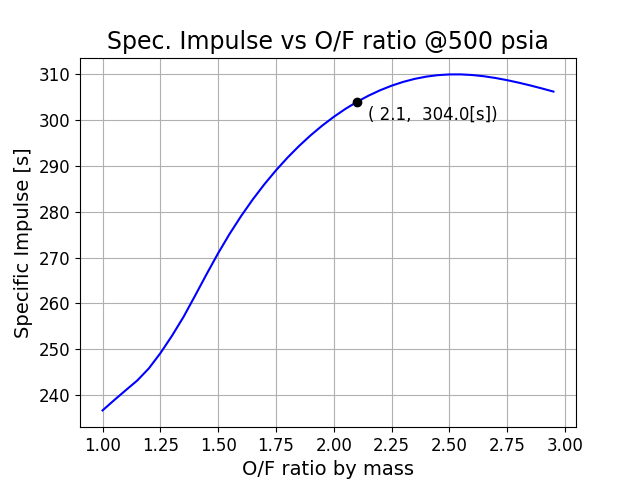
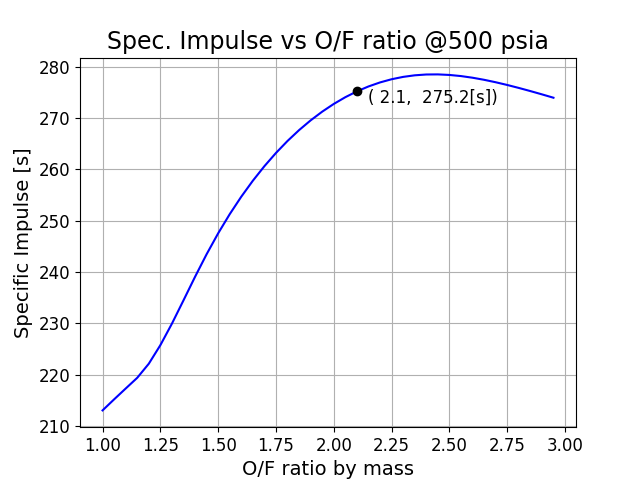
updating to amb. isp

diff --git a/TCA/TCA Sizing Code Files/Final_Graphing_Script.py b/TCA/TCA Sizing Code Files/Final_Graphing_Script.py
@@ -71,13 +71,14 @@ plt.figure(1)
 count = 0
 for mr in mr_range:
     Eps = C.get_eps_at_PcOvPe(Pc = pc, MR = mr, PcOvPe= (pc / pe))  #Optimal Nozzle Expansion Ratio for inputs
-    Isp_vals[count] = C.get_Isp(Pc = pc, MR = mr, eps = Eps) #Calculates specific impulse (s) for given inputs
+    isps = C.estimate_Ambient_Isp(Pc = pc, MR = mr, eps = Eps, Pamb = pamb, frozen = 0) #Calculates specific impulse (s) for given inputs
+    Isp_vals[count] = isps[0]
     count = count + 1
 plt.plot(mr_range, Isp_vals, 'b')
 Eps_chosen = C.get_eps_at_PcOvPe(Pc = pc, MR = of, PcOvPe= (pc / pe))
-Isp_chosen = C.get_Isp(Pc = pc, MR = of, eps = Eps_chosen)
-plt.plot(of, Isp_chosen, 'ko')
-plt.text(2.15, 300, f'({of : .1f}, {Isp_chosen : .1f}[s])', fontsize = 12)
+Isp_chosen = C.estimate_Ambient_Isp(Pc = pc, MR = of, eps = Eps_chosen, Pamb = pamb, frozen = 0)
+plt.plot(of, Isp_chosen[0], 'ko')
+plt.text(2.15, 273, f'({of : .1f}, {Isp_chosen[0] : .1f}[s])', fontsize = 12)
 plt.xlabel("O/F ratio by mass", fontsize = 14)
 plt.ylabel("Specific Impulse [s]", fontsize = 14)
 plt.title(f"Spec. Impulse vs O/F ratio @{pc} psia", fontsize = 17)
@@ -94,7 +95,8 @@ for p in range(pLo, pHi):
     for mr in mr_range:
       po = p * 10.0     #Multiplies p values by 10 to reach actual chamber pressure to test
       Eps = C.get_eps_at_PcOvPe(Pc = po, MR = mr, PcOvPe= (po / pe))  #Optimal Nozzle Expansion Ratio for inputs
-      Isp_vals[count] = C.get_Isp(Pc = po, MR = mr, eps = Eps)     #Calculates specific impulse (s) for given inputs
+      isps = C.estimate_Ambient_Isp(Pc = pc, MR = mr, eps = Eps, Pamb = pamb, frozen = 0)    #Calculates specific impulse (s) for given inputs
+      Isp_vals[count] = isps[0]
       count = count + 1
     plt.plot(mr_range, Isp_vals, label = f'Chamber pressure = {po} psia')
 plt.xlabel("O/F ratio by mass")
